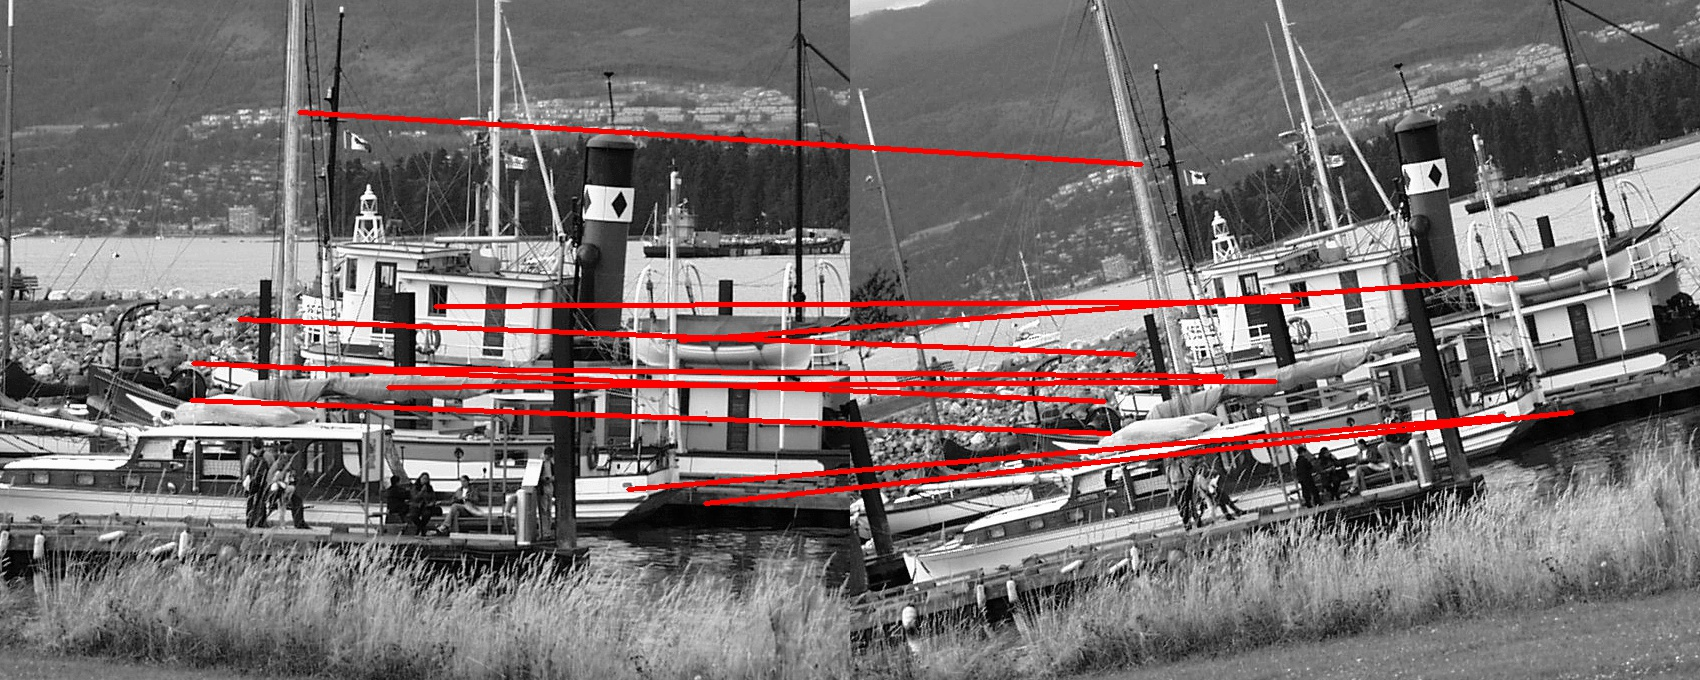
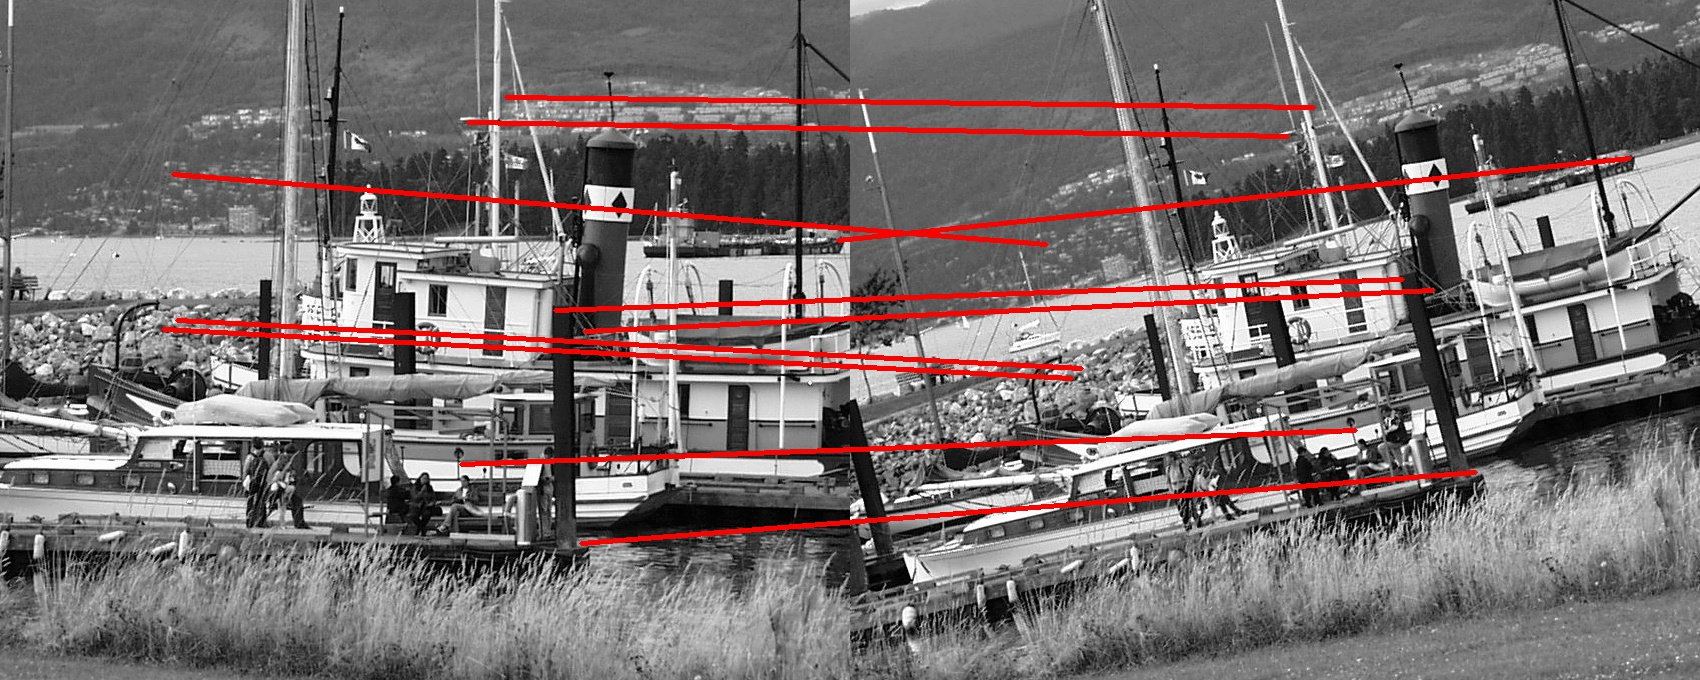
Q2 part 1 code + Q1 part 2 plotting corrected

diff --git a/lab4/RANSAC.py b/lab4/RANSAC.py
@@ -86,7 +86,7 @@ def warp(img_orig, trafo_params):
     B = np.array([[trafo_params[0],trafo_params[1]], [trafo_params[2], trafo_params[3]]]) # trafo matritrafo_params
     bias = np.array([trafo_params[4], trafo_params[5]])
 
-    transf_coord = np.array(np.around((coords_orig @ B.T) + bias[None,:]), dtype=np.int32)
+    transf_coord = np.array(np.around((coords_orig @ np.linalg.inv(B).T) - bias[None,:]), dtype=np.int32)
 
     #find minimum and maximum x and y values to be able to fit the warped image into a picture frame
     min_x, max_x, min_y, max_y = math.inf, -math.inf, math.inf, -math.inf
@@ -132,7 +132,7 @@ def demo():
     num_points = 10
 
     # compute matchings: query=boat1, target=boat2
-    kp_query, des1, kp_train, des2, matches = compute_matches(gray1, gray2, threshold=0.5)
+    kp_query, des1, kp_train, des2, matches = compute_matches(gray1, gray2, threshold=0.75)
 
     # if we compute as compute_matches(img1, img2), then
     # query is kp1
@@ -176,13 +176,23 @@ def demo():
     new_img1 = warp(img1,trafo_params)
 
     #cv2 warpAffine
-    M = np.array([[trafo_params[3],trafo_params[2],trafo_params[5]], [trafo_params[1], trafo_params[0],trafo_params[4]]])
-    new_img1_cv = cv.warpAffine(img1,M,(img1.shape[1],img1.shape[0]))
+    M = np.array([[trafo_params[0], trafo_params[1], trafo_params[4]],
+                    [trafo_params[2], trafo_params[3], trafo_params[5]]])
+    a, b, _ = img1.shape
+    corners = np.array([[0, 0, b, b], [0, a, 0, a]])
+    warped_corners = M[:, :2] @ corners + M[:, 2, None]
+    bottom = np.floor(np.max(warped_corners[1])).astype(int)
+    right = np.floor(np.max(warped_corners[0])).astype(int)
+    top = np.floor(np.min(warped_corners[1])).astype(int)
+    left = np.floor(np.min(warped_corners[0])).astype(int)
+    M[0,2] = M[0,2] - left
+    M[1,2] = M[1,2] - top
+    new_img1_cv = cv.warpAffine(img1,M,(right-left,bottom-top))
 
     ##use transformation parameters of img2 -> img1 to construct warped images
 
     #compute parameters for img2 to img1
-    kp_query, _, kp_train, _, matches = compute_matches(gray2, gray1, threshold=0.5)
+    kp_query, _, kp_train, _, matches = compute_matches(gray2, gray1, threshold=0.75)
     coords_query, coords_train = get_coords(kp_query, kp_train, matches)
     trafo_params2, _, _ = RANSAC(N, coords_query, coords_train, num_points)
 
@@ -190,33 +200,38 @@ def demo():
     new_img2 = warp(img2,trafo_params2)
 
     #cv2 warpAffine
-    M = np.array([[trafo_params2[3],trafo_params2[2],trafo_params2[5]], [trafo_params2[1], trafo_params2[0],trafo_params2[4]]])
-    new_img2_cv = cv.warpAffine(img2,M,(img2.shape[1],img2.shape[0]))
+    M = np.array([[trafo_params2[0], trafo_params2[1], trafo_params2[4]],
+                    [trafo_params2[2], trafo_params2[3], trafo_params2[5]]])
+    a, b, _ = img2.shape
+    corners = np.array([[0, 0, b, b], [0, a, 0, a]])
+    warped_corners = M[:, :2] @ corners + M[:, 2, None]
+    bottom = np.floor(np.max(warped_corners[1])).astype(int)
+    right = np.floor(np.max(warped_corners[0])).astype(int)
+    top = np.floor(np.min(warped_corners[1])).astype(int)
+    left = np.floor(np.min(warped_corners[0])).astype(int)
+    M[0,2] = M[0,2] - left
+    M[1,2] = M[1,2] - top
+    new_img2_cv = cv.warpAffine(img2, M, (right - left, bottom - top))
 
     #visualize all warped images
     fig=plt.figure()
     plt.subplot(2, 2, 1)
     plt.imshow(new_img1,vmin=0,vmax=255)
+    plt.axis('off')
     plt.title('Own function (img1 -> img2)')
     plt.subplot(2, 2, 2)
     plt.imshow(new_img1_cv,vmin=0,vmax=255)
+    plt.axis('off')
     plt.title('warpAffine (img1 -> img2)')
     plt.subplot(2, 2, 3)
     plt.imshow(new_img2,vmin=0,vmax=255)
+    plt.axis('off')
     plt.title('Own function (img2 -> img1)')
     plt.subplot(2, 2, 4)
     plt.imshow(new_img2_cv,vmin=0,vmax=255)
+    plt.axis('off')
     plt.title('warpAffine (img2 -> img1)')
     plt.show()
 
-
-
-    # warp using cv.warpAffine
-    #TODO
-
-
-
-
 if __name__ == "__main__":
-
     demo()

diff --git a/lab4/stitch.py b/lab4/stitch.py
@@ -32,7 +32,7 @@ def demo():
     # if we compute as compute_matches(img1, img2), then
     # query is kp1
     # train is kp2
-    
+
     # extract all coordinates and put them into numpy arrays
     coords_query, coords_train = get_coords(kp_query, kp_train, matches)
 
@@ -68,7 +68,18 @@ def demo():
     stitched_img /= 255
     # convert BGR to RGB
     stitched_img = stitched_img[:, :, ::-1]
+    img1 = img1[:, :, ::-1]
+    img2 = img2[:, :, ::-1]
+    fig=plt.figure()
+    plt.subplot(1, 3, 1)
+    plt.imshow(img2)
+    plt.title('left')
+    plt.subplot(1, 3, 2)
+    plt.imshow(img1)
+    plt.title('right')
+    plt.subplot(1, 3, 3)
     plt.imshow(stitched_img)
+    plt.title('stiched image')
     plt.show()
 
 
